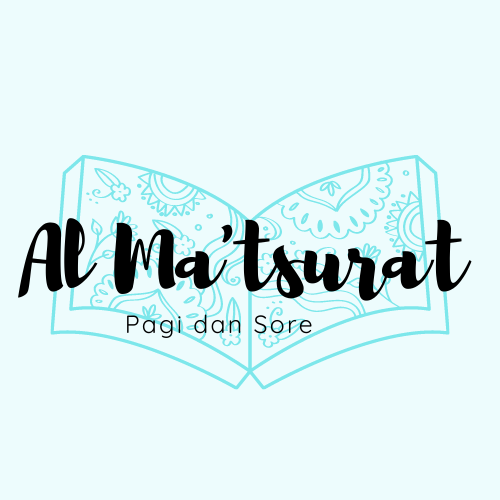
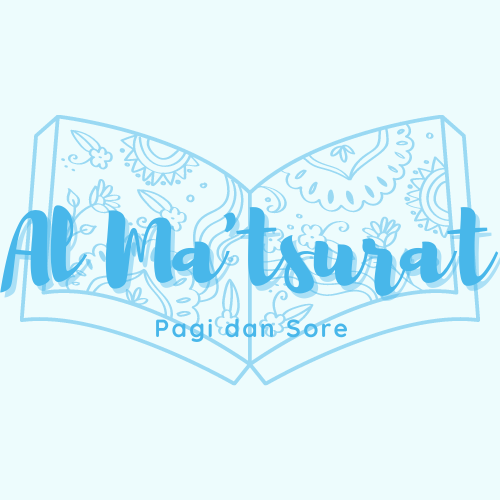
update

Changed region(s): [[0.0, 0.21, 1.0, 0.78]]

diff --git a/src/pages/settings/index.js b/src/pages/settings/index.js
@@ -1,38 +1,87 @@
 import React from 'react';
-import {Image, StyleSheet, Text, View} from 'react-native';
+import {ScrollView, Image, StyleSheet, Text, View} from 'react-native';
 import {IcActive, IcHelp, IcRate} from '../../assets';
-import {Link, Gap, Banner} from '../../components';
+import {Gap, Banner} from '../../components';
 
 export default function Setting({navigation}) {
   return (
     <View style={styles.page}>
-      <View style={styles.container}>
-        <IcRate style={styles.logo} />
-        <Link
-          type="secondary"
-          title="Beri Rating"
-          onPress={() => navigation.replace('GetStarted')}
-        />
-      </View>
-      <Gap height={16} />
-      <View style={styles.container}>
-        <IcHelp style={styles.logo} />
-        <Link
-          type="secondary"
-          title="Info & Privasi"
-          onPress={() => navigation.replace('GetStarted')}
-        />
-      </View>
-      <Gap height={16} />
-      <View style={styles.container}>
-        <IcActive style={styles.logo} />
-        <Link
-          type="secondary"
-          title="Kontak"
-          onPress={() => navigation.replace('GetStarted')}
-        />
-      </View>
-      <Gap height={32} />
+      <ScrollView>
+        <Text style={styles.content}>
+          Al-Ma’tsurat merupakan kumpulan dzikir-dzikir pagi dan petang yang
+          disatukan. Di dalamnya terdapat beberapa potongan ayat-ayat Al-Qur’an
+          dan do’a-do’a harian.
+        </Text>
+        <Text style={styles.content}>
+          Berikut manfaat dan keutamaan Al-Ma’tsurat :
+        </Text>
+        <Text style={styles.content}>1. Disempurnakan Nikmat</Text>
+        <Text style={styles.content_child}>
+          Dalam Al-Ma’tsurat, terdapat surat Al-Falaq dan An-Nass. Jika pada
+          pagi dan sore hari kedua surat itu dibaca, Allah akan senantiasa
+          mencukupkan segala kebutuhan di dunia, hingga ia takkan merasa
+          kekurangan selama hidupnya.
+        </Text>
+        <Text style={styles.content}>
+          2. Dicukupi Segala Kebutuhan di Dunia
+        </Text>
+        <Text style={styles.content_child}>
+          Dalam Al-Ma’tsurat, terdapat surat Al-Falaq dan An-Nass. Jika pada
+          pagi dan sore hari kedua surat itu dibaca, Allah akan senantiasa
+          mencukupkan segala kebutuhan di dunia, hingga ia takkan merasa
+          kekurangan selama hidupnya.
+        </Text>
+        <Text style={styles.content}>
+          3. Sebagai Tanda Syukur kepada Allah Swt
+        </Text>
+        <Text style={styles.content_child}>
+          Telah diriwayatkan oleh Abu Dawud, Nabi bersabda, jika seorang muslim
+          membaca “Ashbahna (Amsaina) wa ashbahal (amsal) mulku lillah
+          walhamdulillah…” maka dia sejatinya bersyukur untuk kehidupan
+          malamnya.
+        </Text>
+        <Text style={styles.content}>
+          4. Rumah Terlindung dari Gangguan Setan
+        </Text>
+        <Text style={styles.content_child}>
+          Terdapat 10 ayat surat Al-Baqoroh di dalam Al-Ma’tsurat. Lima ayat
+          pertama, ayat kursi, dua ayat setelah ayat kursi, dan tiga ayat
+          terakhir dari surat Al-Baqoroh. Barang siapa membaca ayat tersebut di
+          dalam rumah, setan takkan mampu masuk ke dalam rumah tersebut sampai
+          esok harinya.
+        </Text>
+        <Text style={styles.content}>5. Mendapat Keridhoan dari allah Swt</Text>
+        <Text style={styles.content_child}>
+          Allah Swt akan memberikan keridhoan kepada siapapun yang membaca
+          ‘Rodhitubillahi Robba..’ atas semua pekerjaan yang dilakukannya. Hal
+          ini berdasarkan hadits Nabi yang diriwayatkan oleh Turmudzi.
+        </Text>
+        <Text style={styles.content_child}>
+          Terdapat 10 ayat surat Al-Baqoroh di dalam Al-Ma’tsurat. Lima ayat
+          pertama, ayat kursi, dua ayat setelah ayat kursi, dan tiga ayat
+          terakhir dari surat Al-Baqoroh. Barang siapa membaca ayat tersebut di
+          dalam rumah, setan takkan mampu masuk ke dalam rumah tersebut sampai
+          esok harinya.
+        </Text>
+        <Text style={styles.content}>6. Mendapat Pahala Lebih Banyak</Text>
+        <Text style={styles.content_child}>
+          Hadits Nabi yang diriwayatkan oleh Muslim menerangkan, jika membaca
+          “Subhanallahu wabihamdihi..” sebanyak tiga kali, maka pahalanya akan
+          lebih berat daripada membacanya sekali saja.
+        </Text>
+        <Text style={styles.content}>
+          7. Terhindar dari Segala Bahaya yang Dapat Mengancam
+        </Text>
+        <Text style={styles.content_child}>
+          Perkataan Nabi yang diriwayatkan oleh Abu Turmudzi menjelaskan bahwa
+          jika seorang muslim membaca ‘Bismillahilladzi laa yadzurru…’ sebanyak
+          tiga kali pada pagi dan sore hari, akan dijaga oleh Alah Swt. dari
+          segala bahaya yang menghampiri.
+        </Text>
+        <Text style={styles.content}>
+          Terima kasih sudah menggunakan applikasi ini, semoga bermanfaat.
+        </Text>
+      </ScrollView>
       <Banner />
     </View>
   );
@@ -41,19 +90,24 @@ export default function Setting({navigation}) {
 const styles = StyleSheet.create({
   page: {
     backgroundColor: 'white',
-    flex: 1,
-    alignItems: 'center',
-    justifyContent: 'center',
-  },
-  container: {
-    flexDirection: 'row',
     justifyContent: 'space-between',
-    alignItems: 'center',
+    flex: 1,
   },
-  logo: {
-    width: 46,
-    height: 46,
-    marginRight: 12,
-    borderRadius: 46 / 2,
+  content: {
+    fontSize: 16,
+    color: 'black',
+    fontFamily: 'Nunito-Regular',
+    textAlign: 'justify',
+    padding: 16,
+    backgroundColor: '#EDFCFD',
+  },
+  content_child: {
+    fontSize: 16,
+    color: 'black',
+    fontFamily: 'Nunito-ExtraLight',
+    textAlign: 'justify',
+    paddingLeft: 16,
+    paddingRight: 16,
+    backgroundColor: '#EDFCFD',
   },
 });

diff --git a/src/pages/getstarted/index.js b/src/pages/getstarted/index.js
@@ -1,13 +1,7 @@
-import {InterstitialAd} from '@react-native-firebase/admob';
 import React from 'react';
 import {Image, StyleSheet, Text, View} from 'react-native';
 import {AbcLogo, ILGetStarted, ILLogo} from '../../assets';
 import {Button, Gap} from '../../components';
-
-const interstitial = InterstitialAd.createForAdRequest(adUnitId, {
-  requestNonPersonalizedAdsOnly: true,
-  keywords: ['fashion', 'clothing'],
-});
 
 const GetStarted = ({navigation}) => {
   return (
@@ -30,8 +24,8 @@ const GetStarted = ({navigation}) => {
         <Gap height={16} />
         <Button
           type="secondary"
-          title="Setting"
-          onPress={() => interstitial.show()}
+          title="Info"
+          onPress={() => navigation.navigate('Setting')}
         />
       </View>
     </View>
@@ -60,8 +54,9 @@ const styles = StyleSheet.create({
     fontFamily: 'Nunito-Bold',
   },
   image: {
-    width: 300,
+    width: 310,
     height: 300,
+    textAlign: 'center',
     borderRadius: 50 / 2,
   },
 });

diff --git a/src/components/molekul/Banner/index.js b/src/components/molekul/Banner/index.js
@@ -11,12 +11,12 @@ import {
 
 const adUnitId = __DEV__
   ? TestIds.REWARDED
-  : 'ca-app-pub-3940256099942544/6300978111';
+  : 'ca-app-pub-4433334973731129/5430284217';
 
 function App() {
   return (
     <BannerAd
-      unitId={TestIds.REWARDED}
+      unitId={'ca-app-pub-4433334973731129/5430284217'}
       size={BannerAdSize.FULL_BANNER}
       requestOptions={{
         requestNonPersonalizedAdsOnly: true,
@@ -26,7 +26,12 @@ function App() {
 }
 
 export default function Banner() {
-  return <BannerAd unitId={TestIds.BANNER} size={BannerAdSize.FULL_BANNER} />;
+  return (
+    <BannerAd
+      unitId={'ca-app-pub-4433334973731129/5430284217'}
+      size={BannerAdSize.FULL_BANNER}
+    />
+  );
 }
 
 const styles = StyleSheet.create({});

diff --git a/src/components/atom/button/index.js b/src/components/atom/button/index.js
@@ -13,7 +13,7 @@ export default Button;
 
 const styles = StyleSheet.create({
   container: type => ({
-    backgroundColor: type === 'secondary' ? 'white' : '#0BCAD4',
+    backgroundColor: type === 'secondary' ? 'white' : '#48B7EA',
     paddingVertical: 10,
     borderRadius: 10,
   }),
@@ -21,6 +21,6 @@ const styles = StyleSheet.create({
     fontSize: 16,
     fontFamily: 'Nunito-SemiBold',
     textAlign: 'center',
-    color: type === 'secondary' ? '#0BCAD4' : 'white',
+    color: type === 'secondary' ? '#48B7EA' : 'white',
   }),
 });

diff --git a/src/pages/splash/index.js b/src/pages/splash/index.js
@@ -19,11 +19,10 @@ export default Splash;
 
 const styles = StyleSheet.create({
   page: {
-    backgroundColor: 'white',
+    backgroundColor: '#EDFCFD',
     flex: 1,
     alignItems: 'center',
     justifyContent: 'center',
-    backgroundColor: '#EDFCFD',
   },
   title: {
     fontSize: 20,
@@ -33,6 +32,7 @@ const styles = StyleSheet.create({
   },
   image: {
     width: 300,
+    textAlign: 'center',
     height: 300,
     borderRadius: 50 / 2,
   },

diff --git a/src/router/index.js b/src/router/index.js
@@ -41,7 +41,7 @@ const Router = () => {
       <Stack.Screen
         name="Setting"
         component={Setting}
-        options={{headerTitle: 'Setting', headerShown: true}}
+        options={{headerTitle: 'Info', headerShown: true}}
       />
     </Stack.Navigator>
   );

diff --git a/src/components/molekul/List/index.js b/src/components/molekul/List/index.js
@@ -45,7 +45,7 @@ const styles = StyleSheet.create({
     color: '#EDFCFD',
     padding: 5,
     paddingLeft: 10,
-    backgroundColor: '#0BCAD4',
+    backgroundColor: '#48B7EA',
     textAlign: 'left',
     minWidth: '50%',
     borderBottomRightRadius: 15,

diff --git a/android/app/src/main/java/com/klikdev/almatsurat/MainApplication.java b/android/app/src/main/java/com/klikdev/almatsurat/MainApplication.java
@@ -1,4 +1,4 @@
-package com.almatsurat;
+package com.klikdev.almatsurat;
 
 import android.app.Application;
 import android.content.Context;
@@ -62,7 +62,7 @@ public class MainApplication extends Application implements ReactApplication {
          We use reflection here to pick up the class that initializes Flipper,
         since Flipper library is not available in release mode
         */
-        Class<?> aClass = Class.forName("com.almatsurat.ReactNativeFlipper");
+        Class<?> aClass = Class.forName("com.klikdev.almatsurat.ReactNativeFlipper");
         aClass
             .getMethod("initializeFlipper", Context.class, ReactInstanceManager.class)
             .invoke(null, context, reactInstanceManager);

diff --git a/android/app/src/debug/java/com/almatsurat/ReactNativeFlipper.java b/android/app/src/debug/java/com/almatsurat/ReactNativeFlipper.java
@@ -4,7 +4,7 @@
  * <p>This source code is licensed under the MIT license found in the LICENSE file in the root
  * directory of this source tree.
  */
-package com.almatsurat;
+package com.klikdev.almatsurat;
 
 import android.content.Context;
 import com.facebook.flipper.android.AndroidFlipperClient;

diff --git a/android/app/src/main/java/com/klikdev/almatsurat/MainActivity.java b/android/app/src/main/java/com/klikdev/almatsurat/MainActivity.java
@@ -1,4 +1,4 @@
-package com.almatsurat;
+package com.klikdev.almatsurat;
 
 import com.facebook.react.ReactActivity;
 
